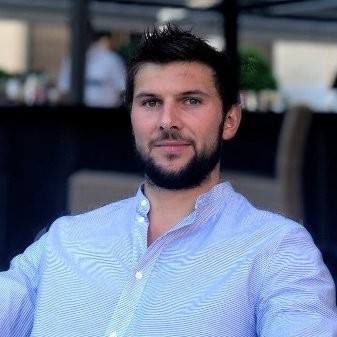
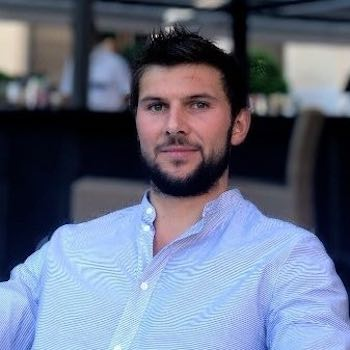
image optimization

diff --git a/content/speakers/JehudiCastroSierra.md b/content/speakers/JehudiCastroSierra.md
@@ -1,7 +1,7 @@
 ---
 name: "Jehudi <br>Castro Sierra"
 function: Digital Transformation Advisor Republic of Colombia
-img: jehudicastrosierra.png
+img: jehudicastrosierra.jpg
 ---
 
 # Jehudi Castro Sierra

diff --git a/content/speakers/StephanLivera.md b/content/speakers/StephanLivera.md
@@ -1,7 +1,7 @@
 ---
 name: "Stephan <br> Livera"
 function: Bitcoin Podcaster & Swan International
-img: stephanlivera.png
+img: stephanlivera.jpg
 ---
 
 # Stephan Livera

diff --git a/content/speakers/AlexGladstein.md b/content/speakers/AlexGladstein.md
@@ -1,7 +1,7 @@
 ---
 name: "Alex <br>Gladstein"
 function: Human Rights Foundation
-img: alexgladstein.png
+img: alexgladstein.jpg
 ---
 
 # Alex Gladstein
